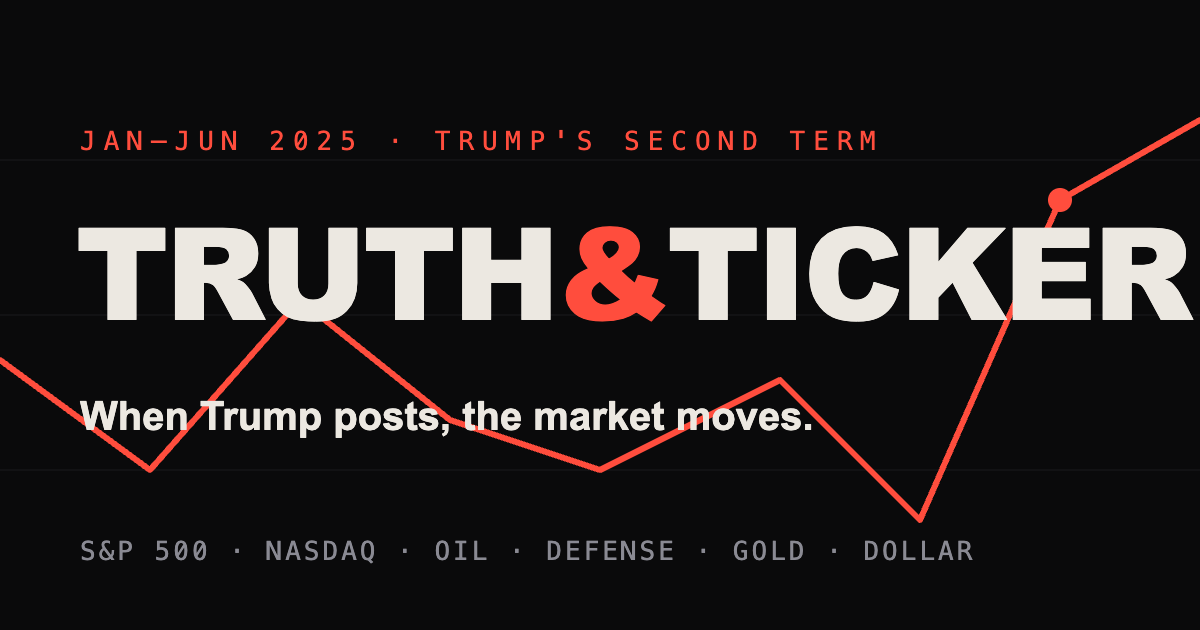
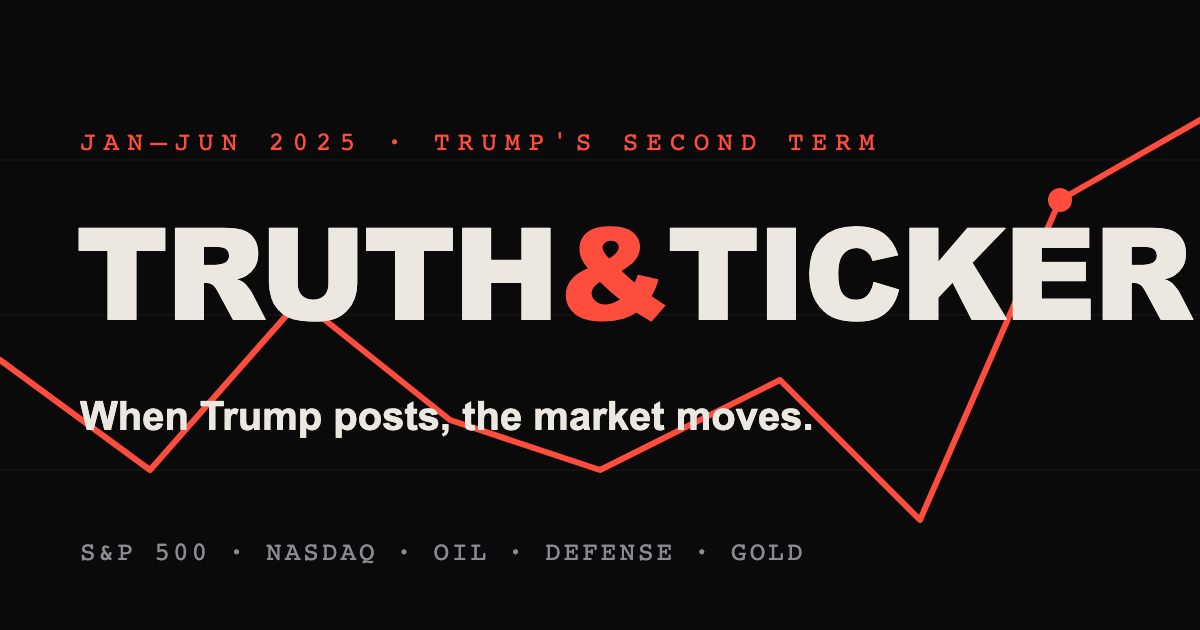
fix: copy says 'gold', not 'the dollar' — gold (GLD) is what's charted
No USD/DXY series is tracked (instruments: CL/DJI/GLD/LMT/NDX/RTX/SPX/VIX/XOM), yet the
hero, share text, OG/Twitter/JSON-LD descriptions, JSON-LD about/keywords, the noscript
block, and the og-image all advertised 'the dollar'. Corrects every reference to 'gold'
and regenerates og-image.png from the fixed SVG (was 'GOLD · DOLLAR' → 'GOLD'). The
piece now accurately names what it shows.

diff --git a/index.html b/index.html
@@ -10,7 +10,7 @@
     <!-- Open Graph -->
     <meta property="og:type" content="website" />
     <meta property="og:title" content="Truth & Ticker — When Trump posts, the market moves" />
-    <meta property="og:description" content="Thirty market-moving moments from Trump's second term (Jan–Jun 2025), laid against the S&P 500, oil, defense, and the dollar. The timing is the story." />
+    <meta property="og:description" content="Thirty market-moving moments from Trump's second term (Jan–Jun 2025), laid against the S&P 500, oil, defense, and gold. The timing is the story." />
     <meta property="og:image" content="https://truth-and-ticker.vercel.app/og-image.png" />
     <meta property="og:image:width" content="1200" />
     <meta property="og:image:height" content="630" />
@@ -18,7 +18,7 @@
     <!-- Twitter -->
     <meta name="twitter:card" content="summary_large_image" />
     <meta name="twitter:title" content="Truth & Ticker — When Trump posts, the market moves" />
-    <meta name="twitter:description" content="Trump's second-term posts vs. the S&P 500, oil, defense, and the dollar. The timing is the story." />
+    <meta name="twitter:description" content="Trump's second-term posts vs. the S&P 500, oil, defense, and gold. The timing is the story." />
     <meta name="twitter:image" content="https://truth-and-ticker.vercel.app/og-image.png" />
 
     <!-- SEO -->
@@ -33,11 +33,11 @@
         "@context": "https://schema.org",
         "@type": "Article",
         "headline": "Truth & Ticker — When Trump posts, the market moves",
-        "description": "A scroll-driven correlation of Trump's second-term announcements (Jan–Jun 2025) — tariffs, threats, strikes, ceasefires — with the S&P 500, oil, defense, and the dollar that moved on them.",
+        "description": "A scroll-driven correlation of Trump's second-term announcements (Jan–Jun 2025) — tariffs, threats, strikes, ceasefires — with the S&P 500, oil, defense, and gold that moved on them.",
         "image": "https://truth-and-ticker.vercel.app/og-image.png",
         "datePublished": "2026-06-27",
-        "about": ["Trump second term", "tariffs", "stock market", "S&P 500", "crude oil", "defense stocks", "US dollar"],
-        "keywords": "Trump, second term, tariffs, Iran, S&P 500, Dow, Nasdaq, oil, defense stocks, dollar, market reaction"
+        "about": ["Trump second term", "tariffs", "stock market", "S&P 500", "crude oil", "defense stocks", "gold"],
+        "keywords": "Trump, second term, tariffs, Iran, S&P 500, Dow, Nasdaq, oil, defense stocks, gold, market reaction"
       }
     </script>
     <link rel="preconnect" href="https://fonts.googleapis.com" />
@@ -57,7 +57,7 @@
     <noscript>
       <div style="max-width:42rem;margin:14vh auto;padding:0 1.5rem;font-family:Georgia,'Times New Roman',serif;color:#e9e6df;text-align:center;line-height:1.6">
         <h1 style="font-family:'JetBrains Mono',ui-monospace,monospace;letter-spacing:0.04em;font-size:2rem;margin:0 0 1rem">TRUTH&amp;TICKER</h1>
-        <p style="font-size:1.05rem;color:#b8b4ab">When Trump posts, the market moves. This interactive piece maps thirty second-term announcements against the S&amp;P&nbsp;500, oil, defense, and the dollar.</p>
+        <p style="font-size:1.05rem;color:#b8b4ab">When Trump posts, the market moves. This interactive piece maps thirty second-term announcements against the S&amp;P&nbsp;500, oil, defense, and gold.</p>
         <p style="color:#8a877f">It needs JavaScript to draw the timeline and charts — please enable JavaScript and reload.</p>
       </div>
     </noscript>

diff --git a/src/components/Hero.tsx b/src/components/Hero.tsx
@@ -60,7 +60,7 @@ export function Hero({ linePath, areaPath }: Props) {
         From day one, a presidency has played out in headlines and on Truth Social —
         tariffs, threats, strikes, ceasefires — and the markets moved on every word.
         Scroll to see thirty announcements laid against the S&amp;P 500, oil, defense,
-        and the dollar. The timing is the story. Judge it yourself.
+        and gold. The timing is the story. Judge it yourself.
       </p>
       <div className={styles.scrollHint} data-hero aria-hidden="true">SCROLL ↓</div>
     </header>

diff --git a/src/components/ShareButton.tsx b/src/components/ShareButton.tsx
@@ -2,7 +2,7 @@ import { useState, useCallback } from 'react'
 import styles from './ShareButton.module.css'
 
 export const TWEET_TEXT =
-  'When Trump posts, the market moves. Truth & Ticker maps 30 second-term announcements — tariffs, threats, strikes, ceasefires — against the S&P 500, oil, defense & the dollar 👇'
+  'When Trump posts, the market moves. Truth & Ticker maps 30 second-term announcements — tariffs, threats, strikes, ceasefires — against the S&P 500, oil, defense & gold 👇'
 
 function shareUrl(): string {
   if (typeof window === 'undefined') return ''